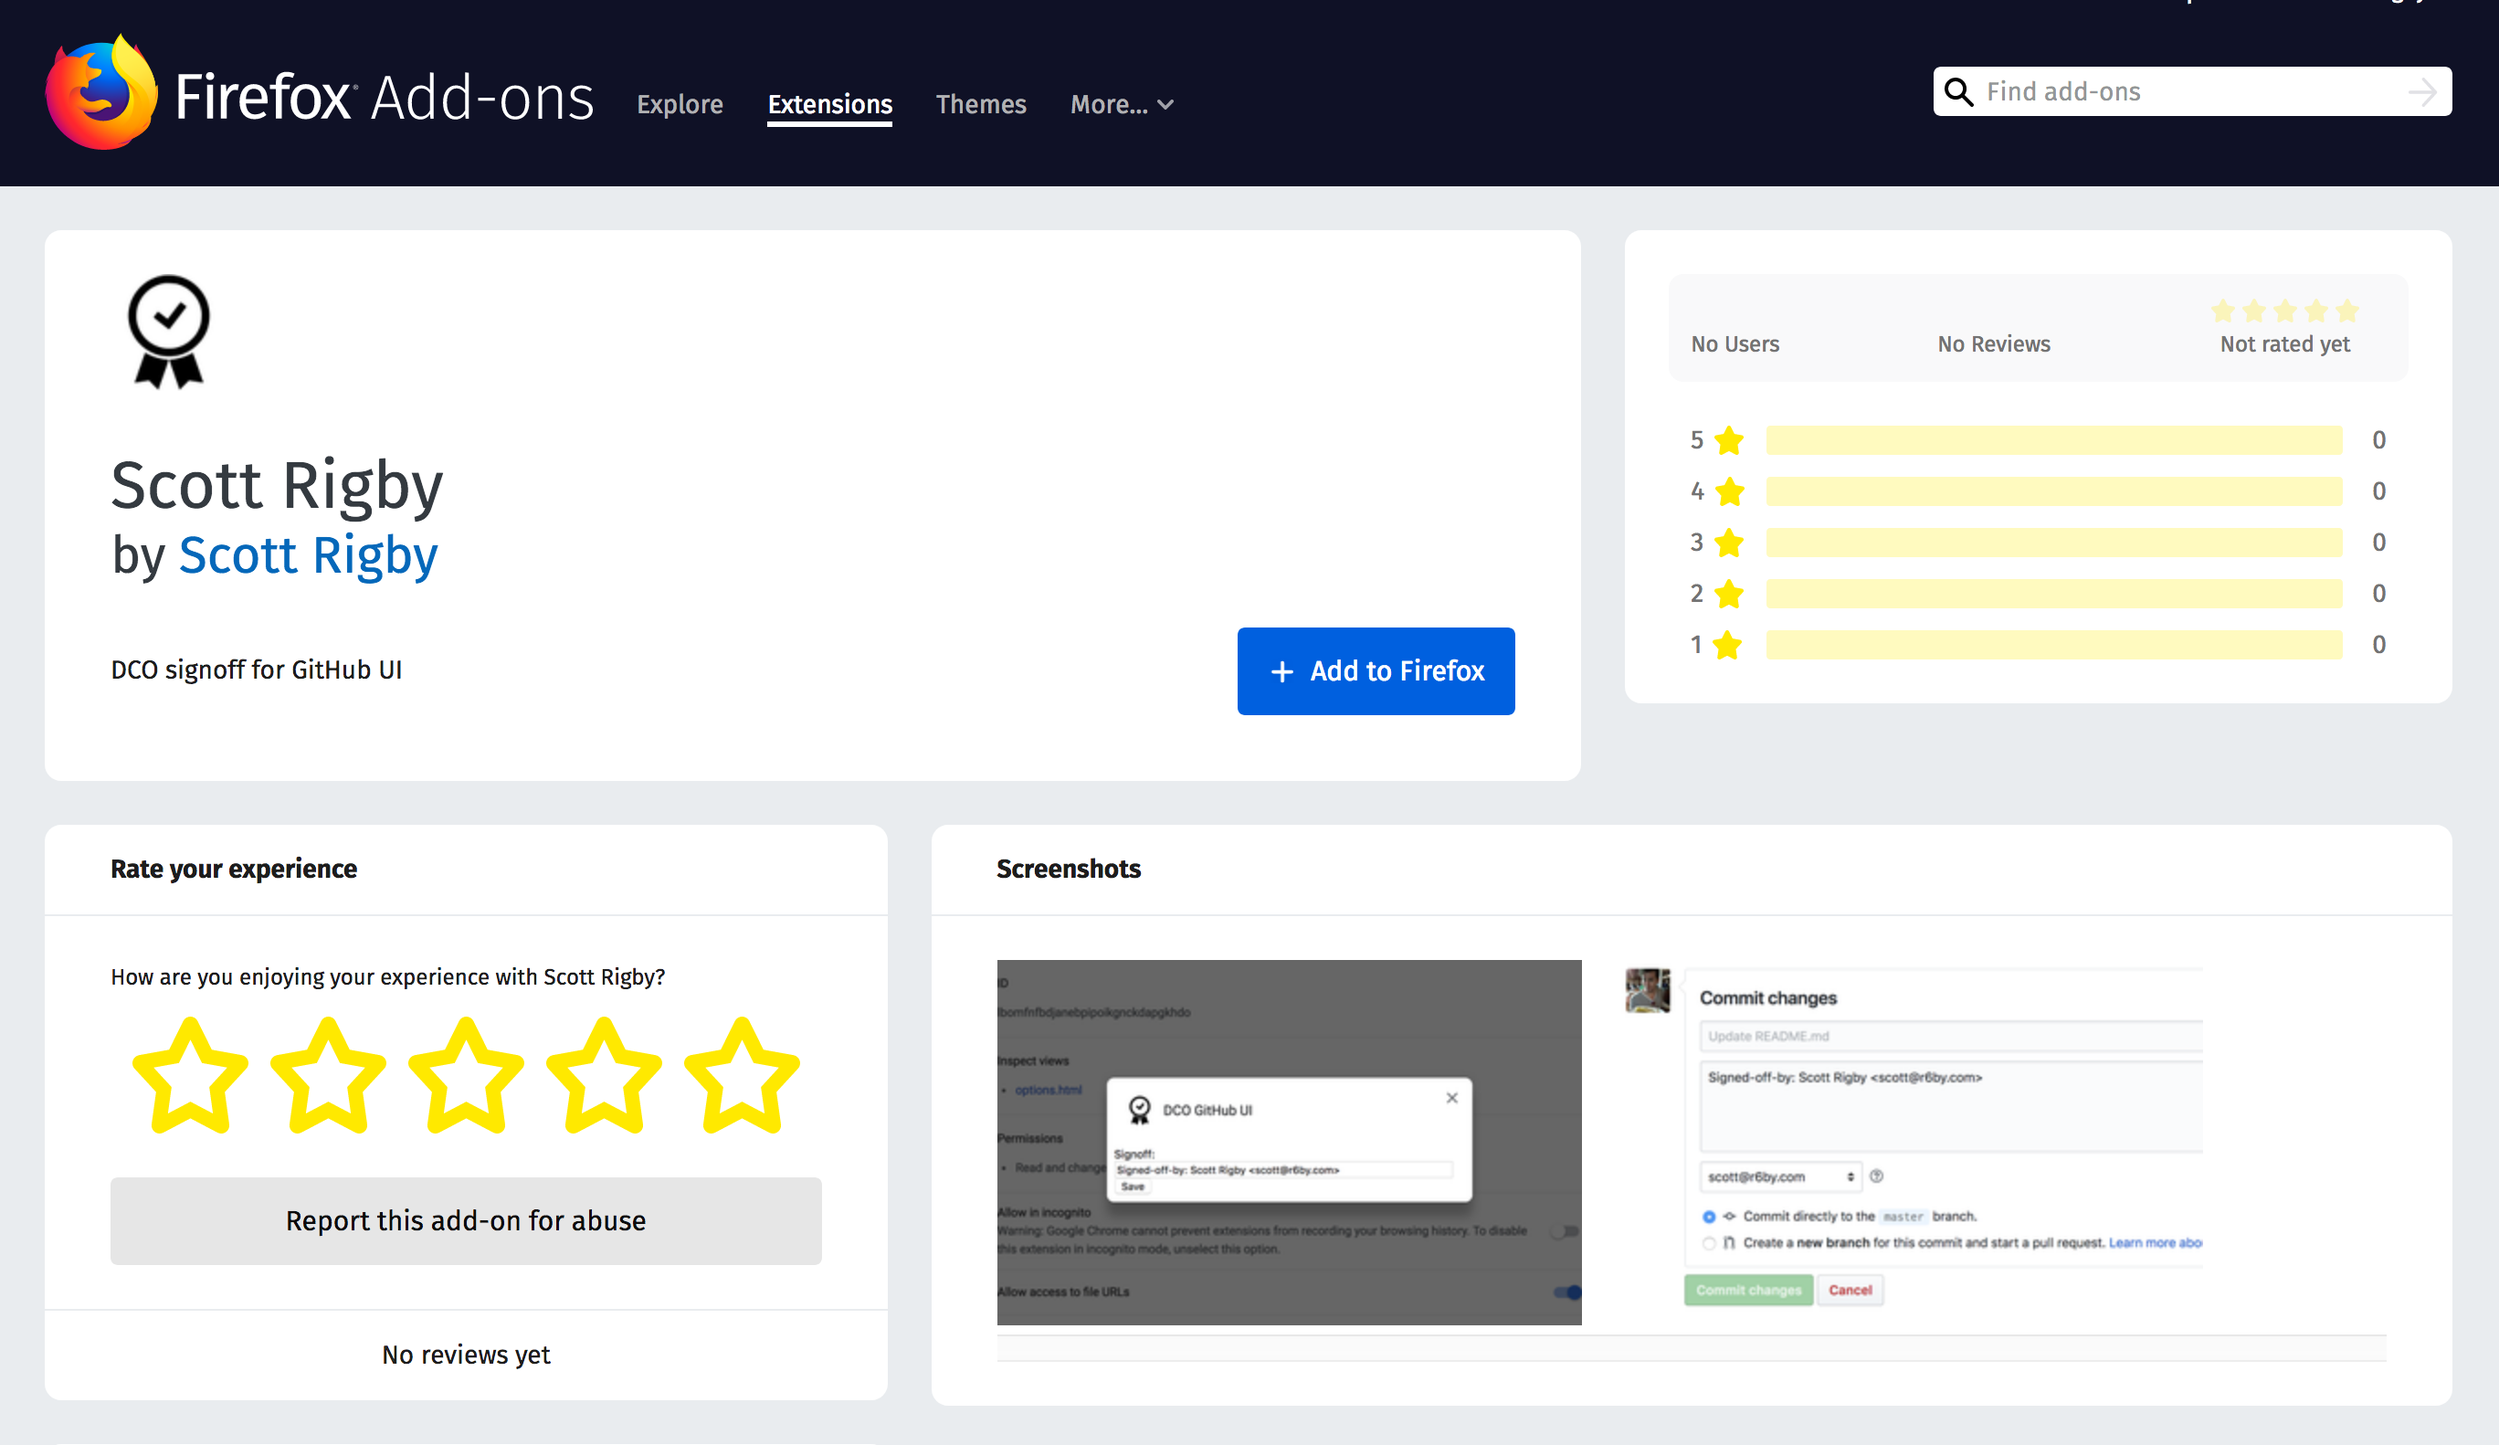
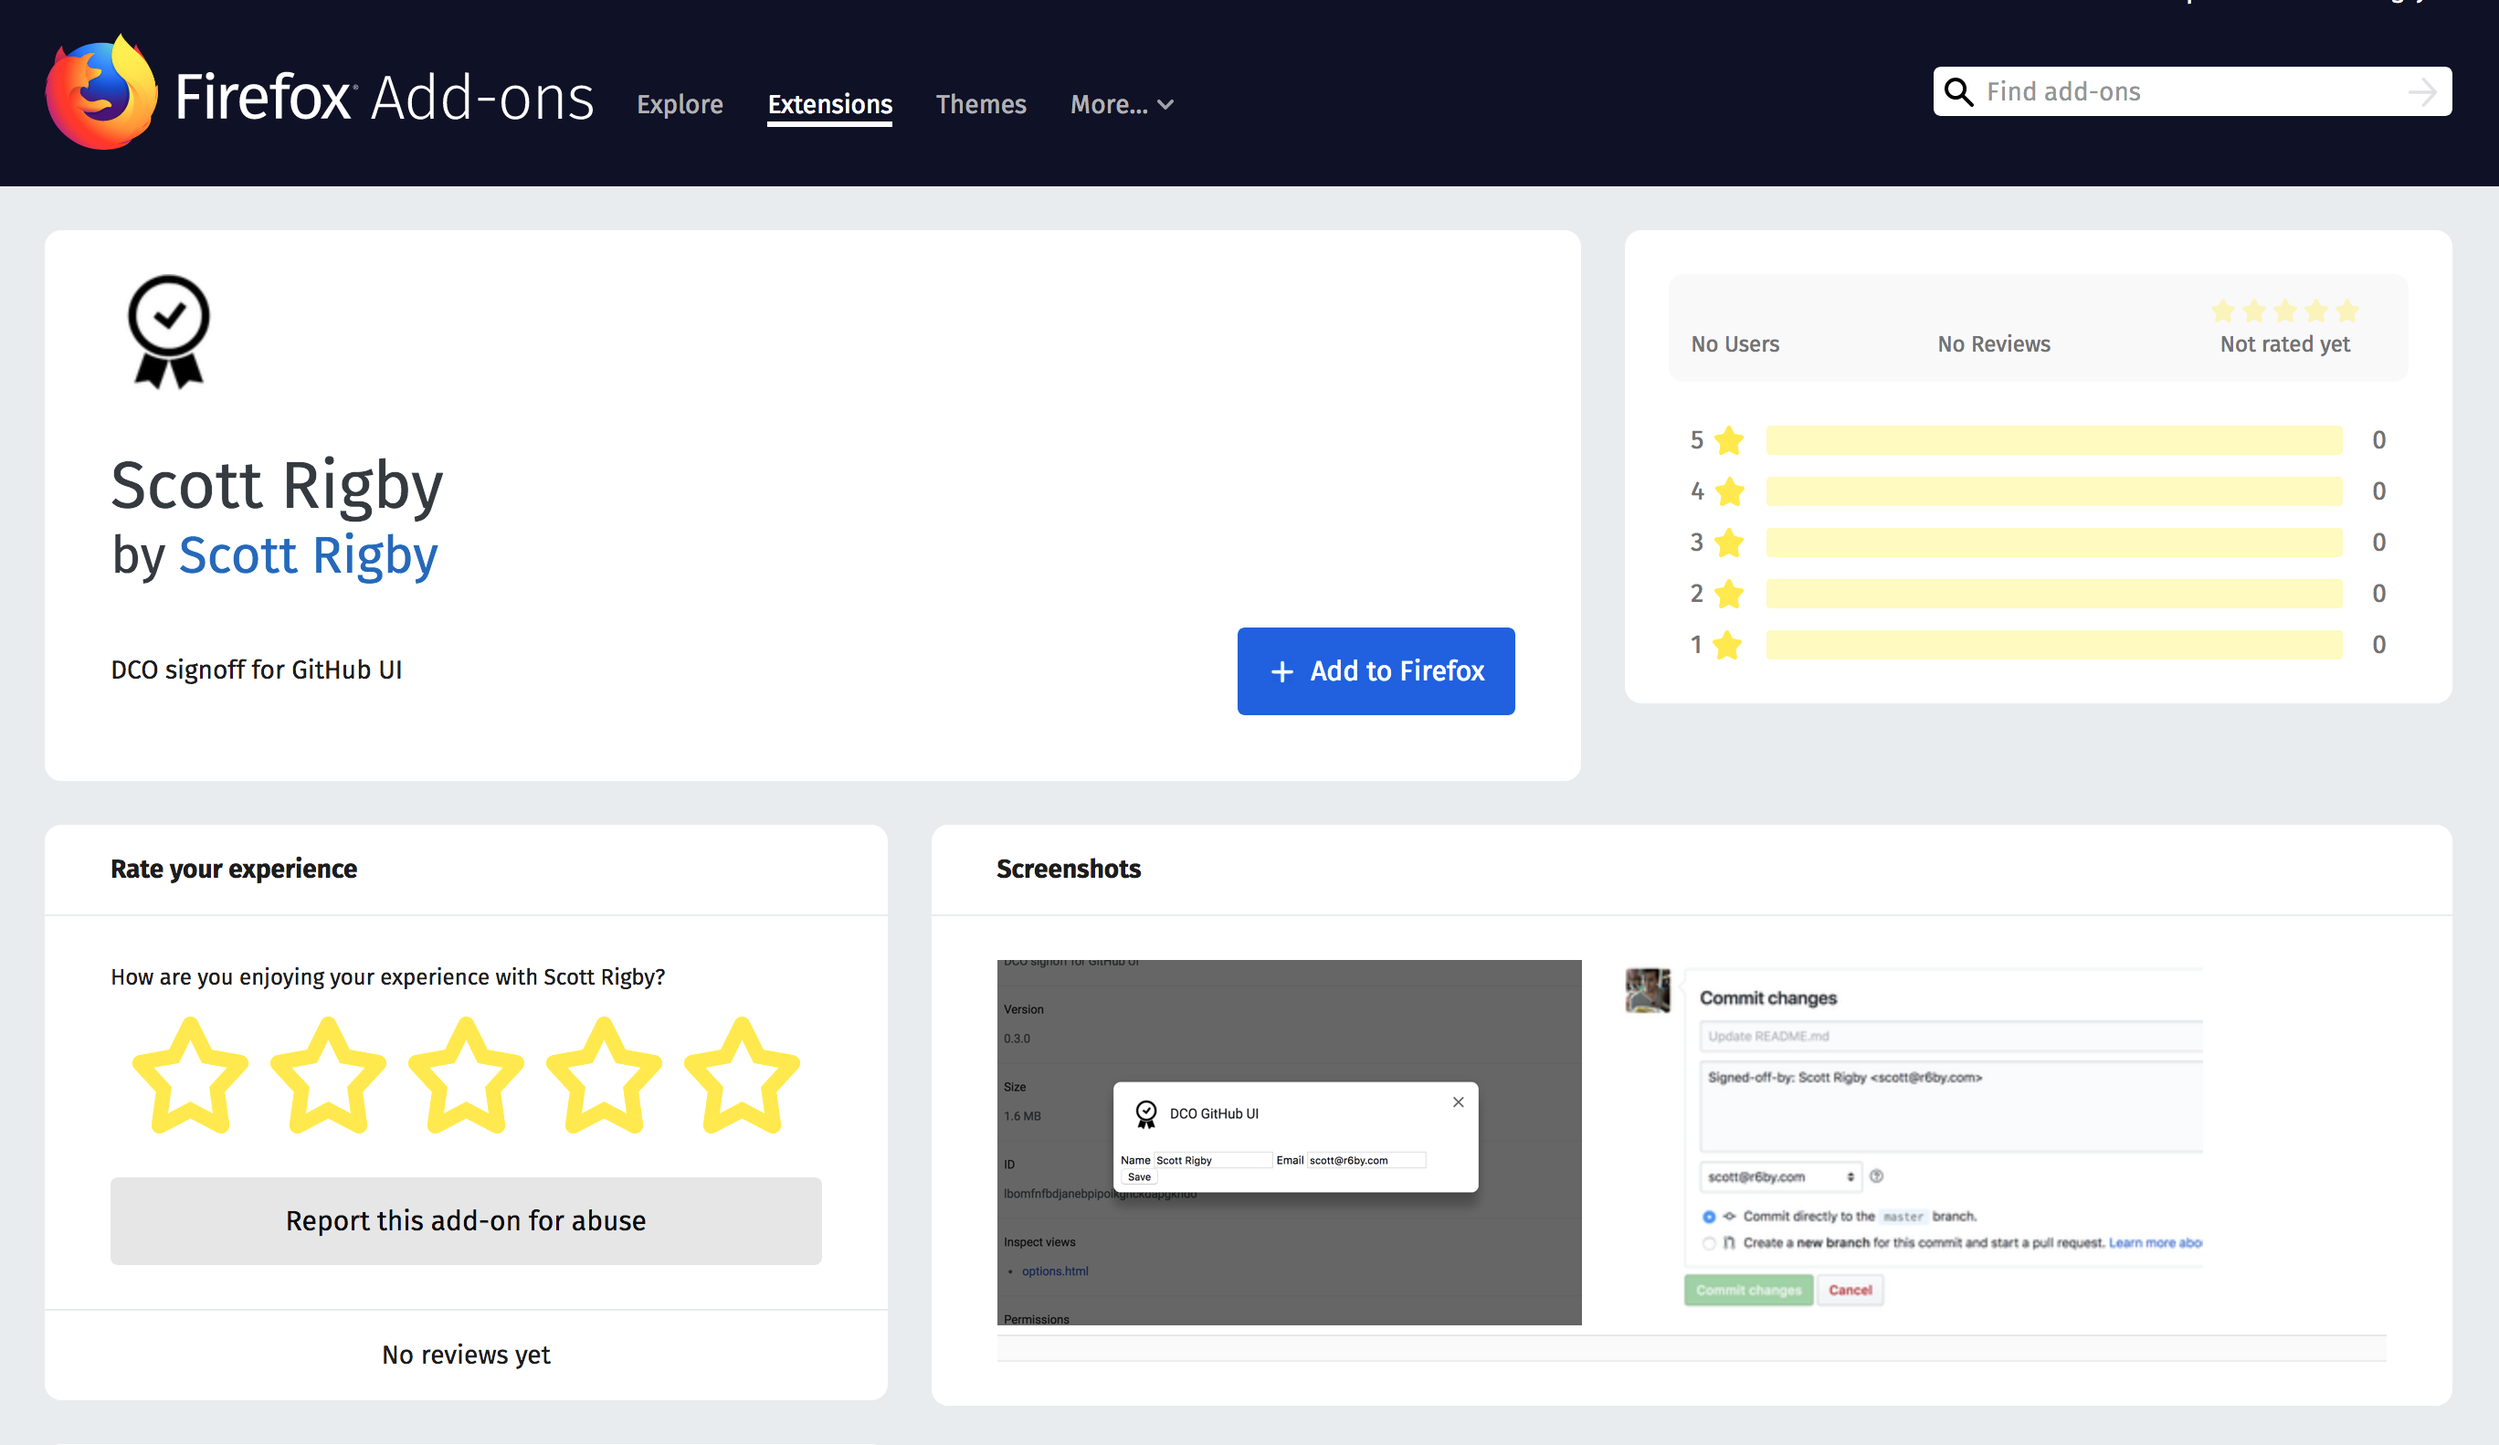
Collect name and email, and auto-format output as DCO expects

diff --git a/options.js b/options.js
@@ -1,8 +1,10 @@
 // Saves options to chrome.storage
 function save_options() {
-    var signoff = document.getElementById('signoff').value;
+    var name = document.getElementById('name').value;
+    var email = document.getElementById('email').value;
     chrome.storage.local.set({
-        signoff: signoff
+        name: name,
+        email: email
     }, function () {
         // Update status to let user know options were saved.
         var status = document.getElementById('status');
@@ -17,9 +19,11 @@ function save_options() {
 // stored in chrome.storage.
 function restore_options() {
     chrome.storage.local.get({
-        signoff: ''
+        name: '',
+        email: ''
     }, function (items) {
-        document.getElementById('signoff').value = items.signoff;
+        document.getElementById('name').value = items.name;
+        document.getElementById('email').value = items.email;
     });
 }
 document.addEventListener('DOMContentLoaded', restore_options);

diff --git a/options.html b/options.html
@@ -2,17 +2,19 @@
 <html>
 
 <head>
-    <title>DCO GitHub UI Options</title>
+    <meta charset="utf-8" />
 </head>
 
 <body>
+    <form>
+        <label>Name</label>
+        <input type="text" id="name" placeholder="Your full name" />
+        <label>Email</label>
+        <input type="text" id="email" placeholder="Your email" />
 
-    <label for="signoff">Signoff:</label>
-    <input type="text" id="signoff" name="signoff" placeholder="DCO signoff string" style="width: 95%" />
-
-    <div id="status"></div>
-    <button id="save">Save</button>
-
+        <div id="status"></div>
+        <button id="save">Save</button>
+    </form>
     <script src="options.js"></script>
 </body>
 

diff --git a/content.js b/content.js
@@ -4,7 +4,11 @@
 // needs to do that, you need content scripts.
 // See https://developer.mozilla.org/en-US/docs/Mozilla/Add-ons/WebExtensions/Content_scripts
 chrome.storage.local.get({
-    signoff: ''
+    name: '',
+    email: ''
 }, function (items) {
-    document.getElementById('commit-description-textarea').value = items.signoff;
+    if (items.name && items.email) {
+        var signoff = "Signed-off-by: " + items.name + " <" + items.email + ">"
+        document.getElementById('commit-description-textarea').value = signoff;
+    }
 });
